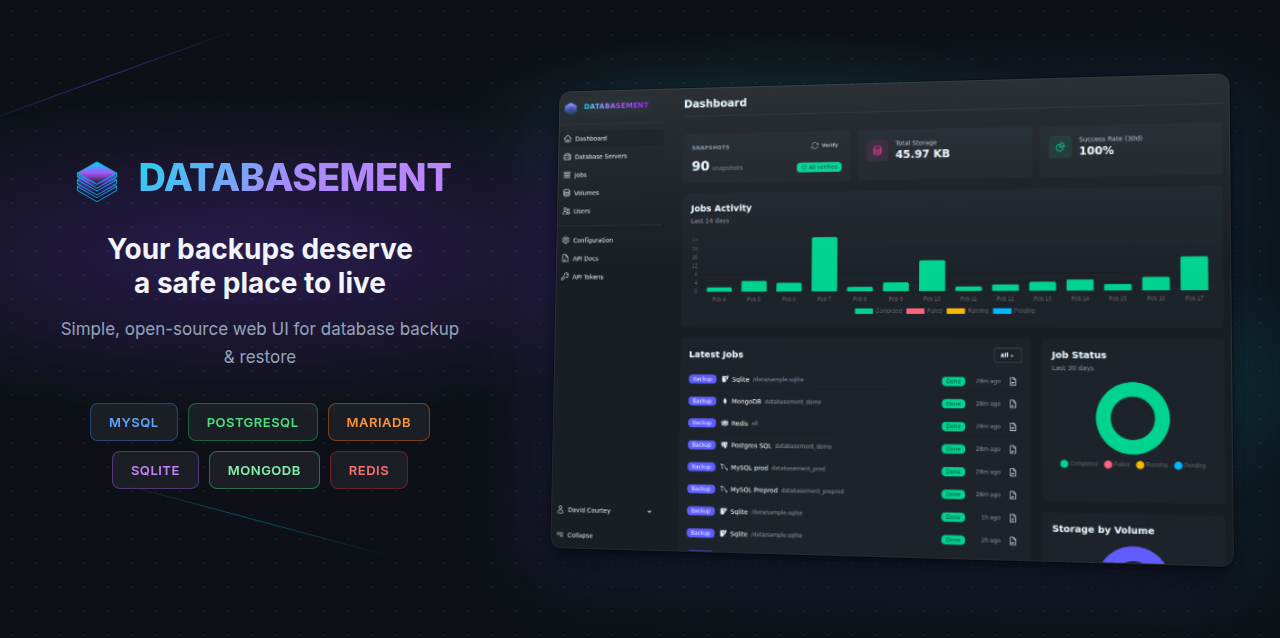
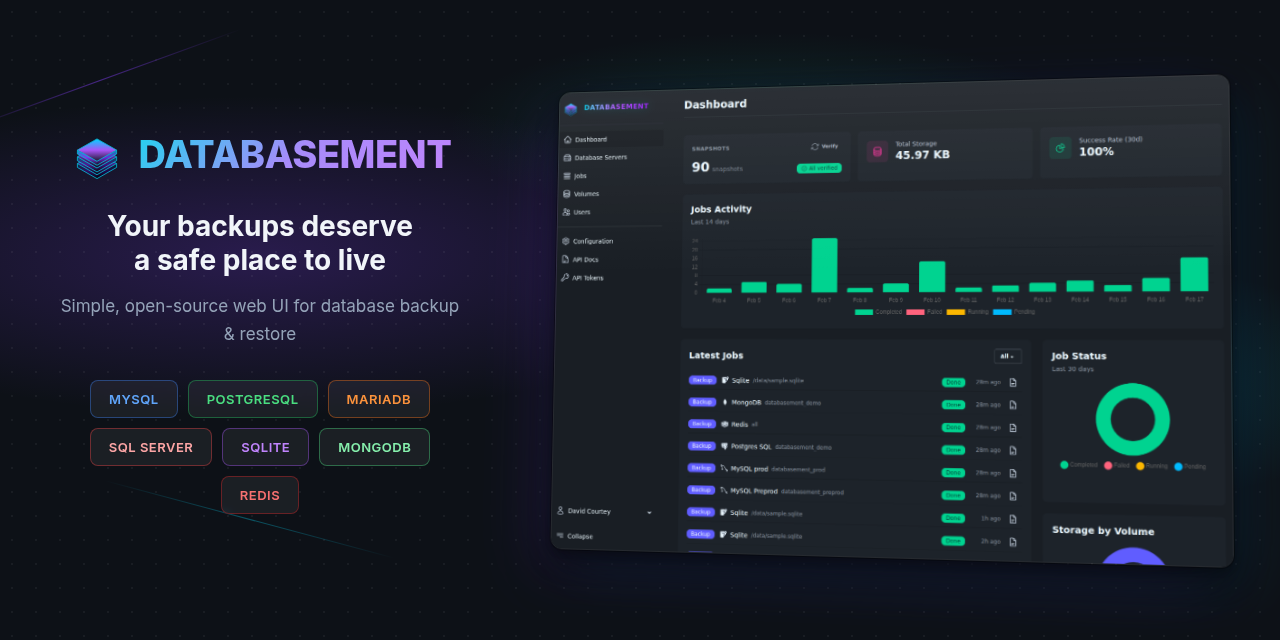
docs: document Microsoft SQL Server backup support (#298)
Surface the new MSSQL engine (added in #293) across the README, docs
site, and banner so users know it's supported alongside MySQL, MariaDB,
PostgreSQL, MongoDB, SQLite, and Redis/Valkey. Re-render the banner
with the new SQL Server badge and add a small helper script for
regenerating it.

Pull request: docs: document Microsoft SQL Server backup support
## Summary
- Surface the new Microsoft SQL Server engine (added in #293) across the README, docs site, and banner.
- Add an MSSQL row to the Supported Database Versions tables and a concise MSSQL section under Connection Requirements (covering the `db_owner` + drop/create permission requirement and the cross-edition restore caveat).
- Re-render `banner-v2.png` with the new SQL Server badge and add `docs/static/img/render-banner.sh` so future banner updates are a one-liner.

## Test plan
- [x] Skim rendered docs locally to confirm the new MSSQL row and section render correctly
- [x] Re-rendered banner shows the SQL Server badge between MariaDB and SQLite
- [ ] CI green on this branch

<!-- This is an auto-generated comment: release notes by coderabbit.ai -->

## Summary by CodeRabbit

* **Documentation**
  * Updated README with new database engine compatibility details and supported versions table
  * Enhanced user guides with setup, connection, and permissions requirements for additional database engine support
  * Updated feature documentation and visual branding to reflect expanded database engine compatibility

[![Review Change Stack](https://storage.googleapis.com/coderabbit_public_assets/review-stack-in-coderabbit-ui.svg)](https://app.coderabbit.ai/change-stack/David-Crty/databasement/pull/298)

<!-- end of auto-generated comment: release notes by coderabbit.ai -->

diff --git a/docs/static/img/banner-generator.html b/docs/static/img/banner-generator.html
@@ -132,9 +132,10 @@
         .badge:nth-child(1) { border-color: rgba(59, 130, 246, 0.4); color: #60a5fa; }
         .badge:nth-child(2) { border-color: rgba(34, 197, 94, 0.4); color: #4ade80; }
         .badge:nth-child(3) { border-color: rgba(249, 115, 22, 0.4); color: #fb923c; }
-        .badge:nth-child(4) { border-color: rgba(168, 85, 247, 0.4); color: #c084fc; }
-        .badge:nth-child(5) { border-color: rgba(74, 222, 128, 0.4); color: #86efac; }
-        .badge:nth-child(6) { border-color: rgba(220, 38, 38, 0.4); color: #f87171; }
+        .badge:nth-child(4) { border-color: rgba(239, 68, 68, 0.4); color: #fca5a5; }
+        .badge:nth-child(5) { border-color: rgba(168, 85, 247, 0.4); color: #c084fc; }
+        .badge:nth-child(6) { border-color: rgba(74, 222, 128, 0.4); color: #86efac; }
+        .badge:nth-child(7) { border-color: rgba(220, 38, 38, 0.4); color: #f87171; }
 
         /* Right side - screenshot */
         .screenshot-container {
@@ -309,6 +310,7 @@
                     <span class="badge">MySQL</span>
                     <span class="badge">PostgreSQL</span>
                     <span class="badge">MariaDB</span>
+                    <span class="badge">SQL Server</span>
                     <span class="badge">SQLite</span>
                     <span class="badge">MongoDB</span>
                     <span class="badge">Redis</span>

diff --git a/docs/docs/user-guide/database-servers.md b/docs/docs/user-guide/database-servers.md
@@ -4,7 +4,7 @@ sidebar_position: 2
 
 # Database Servers
 
-Database servers are the source of your backups. Databasement can connect to and backup MySQL, PostgreSQL, MariaDB, MongoDB, SQLite, and Redis/Valkey servers.
+Database servers are the source of your backups. Databasement can connect to and backup MySQL, PostgreSQL, MariaDB, Microsoft SQL Server, MongoDB, SQLite, and Redis/Valkey servers.
 
 ## Supported Versions
 
@@ -15,6 +15,7 @@ Databasement uses standard CLI tools to perform backup and restore operations. T
 | MySQL      | 5.6, 5.7, 8.x, 9.x           | `mariadb-dump`               | Yes     |
 | MariaDB    | 10.x, 11.x, 12.x             | `mariadb-dump`               | Yes     |
 | PostgreSQL | 12, 13, 14, 15, 16, 17, 18   | `pg_dump` v18                | Yes     |
+| SQL Server | 2017, 2019, 2022, Azure SQL  | `sqlpackage` (`.bacpac`)     | Yes     |
 | MongoDB    | 4.2, 4.4, 5.0, 6.0, 7.0, 8.0 | `mongodump` / `mongorestore` | Yes     |
 | SQLite     | 3.x                          | File copy                    | Yes     |
 | Redis      | 2.8+                         | `redis-cli --rdb`            | No      |
@@ -23,6 +24,7 @@ Databasement uses standard CLI tools to perform backup and restore operations. T
 :::info How this works
 - **MySQL / MariaDB**: Databasement ships the MariaDB 11.4 client (`mariadb-dump`), which is wire-protocol compatible with MySQL servers.
 - **PostgreSQL**: The `pg_dump` v18 client can dump from any server version back to 9.2. Versions below 12 have reached end-of-life and are not recommended.
+- **SQL Server**: Backups are exported as `.bacpac` files using Microsoft's `sqlpackage` CLI (`/Action:Export`) and re-imported with `/Action:Import`. Works against on-prem SQL Server 2017+ and Azure SQL Database. Connections use the `pdo_sqlsrv` PHP extension.
 - **MongoDB**: The MongoDB Database Tools (`mongodump` / `mongorestore`) officially support server versions 4.2 through 8.0.
 - **SQLite**: Backups are performed by copying the database file over SFTP. The SQLite 3.x file format has been backwards-compatible since 3.0.0 (2004).
 - **Redis / Valkey**: `redis-cli --rdb` creates a point-in-time RDB snapshot via the replication protocol. Valkey 7.2+ is supported as a drop-in replacement for Redis. Restore is not supported.
@@ -107,6 +109,16 @@ ALTER DEFAULT PRIVILEGES IN SCHEMA public GRANT ALL ON TABLES TO databasement;
 
 :::note[Single database only]
 For single-database access without `CREATEDB`, the target database must already exist. Grant `ALL PRIVILEGES` on that specific database and its schema. The user won't be able to drop/recreate the database during restore - Databasement will drop and recreate tables instead.
+:::
+
+### Microsoft SQL Server
+
+SQL Server uses `sqlpackage` to export and import `.bacpac` files. Supports on-prem SQL Server 2017+ and Azure SQL Database (default port: 1433).
+
+The login needs `db_owner` on each target database, plus permission to drop and create databases (restore drops the target first). `sysadmin` works; on Azure SQL, use a server admin or grant `dbmanager` on `master`.
+
+:::info Cross-edition restore
+Restoring across editions (e.g. Azure SQL → on-prem) may fail if the source uses features the target doesn't support — a `sqlpackage` limitation.
 :::
 
 ### MongoDB

diff --git a/README.md b/README.md
@@ -23,7 +23,7 @@
 </p>
 
 <p align="center">
-  A modern, self-hosted database backup management application for MySQL, PostgreSQL, MariaDB, MongoDB, SQLite, and Redis.
+  A modern, self-hosted database backup management application for MySQL, PostgreSQL, MariaDB, Microsoft SQL Server, MongoDB, SQLite, and Redis.
 </p>
 
 <p align="center">
@@ -36,7 +36,7 @@
 
 ## Features
 
-- **Multi-database support** - Manage MySQL, PostgreSQL, MariaDB, MongoDB, SQLite, and Redis/Valkey servers from a single interface
+- **Multi-database support** - Manage MySQL, PostgreSQL, MariaDB, Microsoft SQL Server, MongoDB, SQLite, and Redis/Valkey servers from a single interface
 - **SSH tunnel support** - Connect to databases in private networks through a bastion/jump server with password or key-based authentication
 - **Automated backups** - Schedule recurring backups on daily or weekly intervals. Flexible retention policies: simple time-based (days) or GFS (grandfather-father-son)
 - **Multiple compression options** - gzip, zstd (20-40% better compression), or encrypted (AES-256 for sensitive data)
@@ -88,6 +88,7 @@ For production deployments, see our [configuration guide](https://david-crty.git
 | MySQL      | 5.6, 5.7, 8.x, 9.x           | `mariadb-dump`               | Yes     |
 | MariaDB    | 10.x, 11.x, 12.x             | `mariadb-dump`               | Yes     |
 | PostgreSQL | 12, 13, 14, 15, 16, 17, 18   | `pg_dump` v18                | Yes     |
+| SQL Server | 2017, 2019, 2022, Azure SQL  | `sqlpackage` (`.bacpac`)     | Yes     |
 | MongoDB    | 4.2, 4.4, 5.0, 6.0, 7.0, 8.0 | `mongodump` / `mongorestore` | Yes     |
 | SQLite     | 3.x                          | `sqlite3 .backup`            | Yes     |
 | Redis      | 2.8+                         | `redis-cli --rdb`            | No      |

diff --git a/docs/docs/index.md b/docs/docs/index.md
@@ -11,11 +11,11 @@ Welcome to the **Databasement** documentation!
 
 > **Try it out!** Explore the [live demo](https://databasement-demo.crty.dev/) to see Databasement in action.
 
-Databasement is a web application for managing database server backups. It allows you to register database servers (MySQL, PostgreSQL, MariaDB, MongoDB, SQLite, Redis/Valkey), test connections, schedule automated backups, and restore snapshots to any registered server.
+Databasement is a web application for managing database server backups. It allows you to register database servers (MySQL, PostgreSQL, MariaDB, Microsoft SQL Server, MongoDB, SQLite, Redis/Valkey), test connections, schedule automated backups, and restore snapshots to any registered server.
 
 ## Features
 
-- **Multi-database support**: Manage MySQL, PostgreSQL, MariaDB, MongoDB, SQLite, and Redis/Valkey servers
+- **Multi-database support**: Manage MySQL, PostgreSQL, MariaDB, Microsoft SQL Server, MongoDB, SQLite, and Redis/Valkey servers
 - **SSH tunnel support**: Connect to databases in private networks through a bastion/jump server
 - **Automated backups**: Schedule recurring backups with customizable retention
 - **Storage volumes**: Store backups locally, on S3-compatible storage, or via SFTP/FTP

diff --git a/docs/docs/user-guide/intro.md b/docs/docs/user-guide/intro.md
@@ -31,9 +31,9 @@ Two-factor authentication can be enabled later in your account settings for addi
 Navigate to **Database Servers** and click **Add Server**. You'll need:
 
 - **Name**: A friendly name for this server (e.g., "Production MySQL")
-- **Type**: MySQL, PostgreSQL, MariaDB, MongoDB, SQLite, or Redis/Valkey
+- **Type**: MySQL, PostgreSQL, MariaDB, Microsoft SQL Server, MongoDB, SQLite, or Redis/Valkey
 - **Host**: The server hostname or IP address
-- **Port**: The database port (default: 3306 for MySQL, 5432 for PostgreSQL, 27017 for MongoDB, 6379 for Redis)
+- **Port**: The database port (default: 3306 for MySQL, 5432 for PostgreSQL, 1433 for SQL Server, 27017 for MongoDB, 6379 for Redis)
 - **Username**: Database user with backup privileges
 - **Password**: The database password
 

diff --git a/docs/docs/contributing/development.md b/docs/docs/contributing/development.md
@@ -201,7 +201,7 @@ Ensure tests pass before committing.
 **Backup Process:**
 1. Connect to database server
 2. Establish SSH tunnel if configured
-3. Execute database-specific dump (mysqldump/pg_dump/mongodump/redis-cli/cp)
+3. Execute database-specific dump (mariadb-dump/pg_dump/sqlpackage/mongodump/redis-cli/cp)
 4. Compress with gzip
 5. Upload to configured volume (local/S3)
 6. Record snapshot metadata

diff --git a/docs/docs/self-hosting/intro.md b/docs/docs/self-hosting/intro.md
@@ -6,7 +6,7 @@ sidebar_position: 1
 
 Welcome to the **Self-Hosting** section of the **Databasement documentation**!
 
-Databasement is a web application for managing database server backups. It allows you to register database servers (MySQL, PostgreSQL, MariaDB, MongoDB, SQLite, Redis/Valkey), test connections, schedule automated backups, and restore snapshots to any registered server.
+Databasement is a web application for managing database server backups. It allows you to register database servers (MySQL, PostgreSQL, MariaDB, Microsoft SQL Server, MongoDB, SQLite, Redis/Valkey), test connections, schedule automated backups, and restore snapshots to any registered server.
 
 ## Getting Started
 